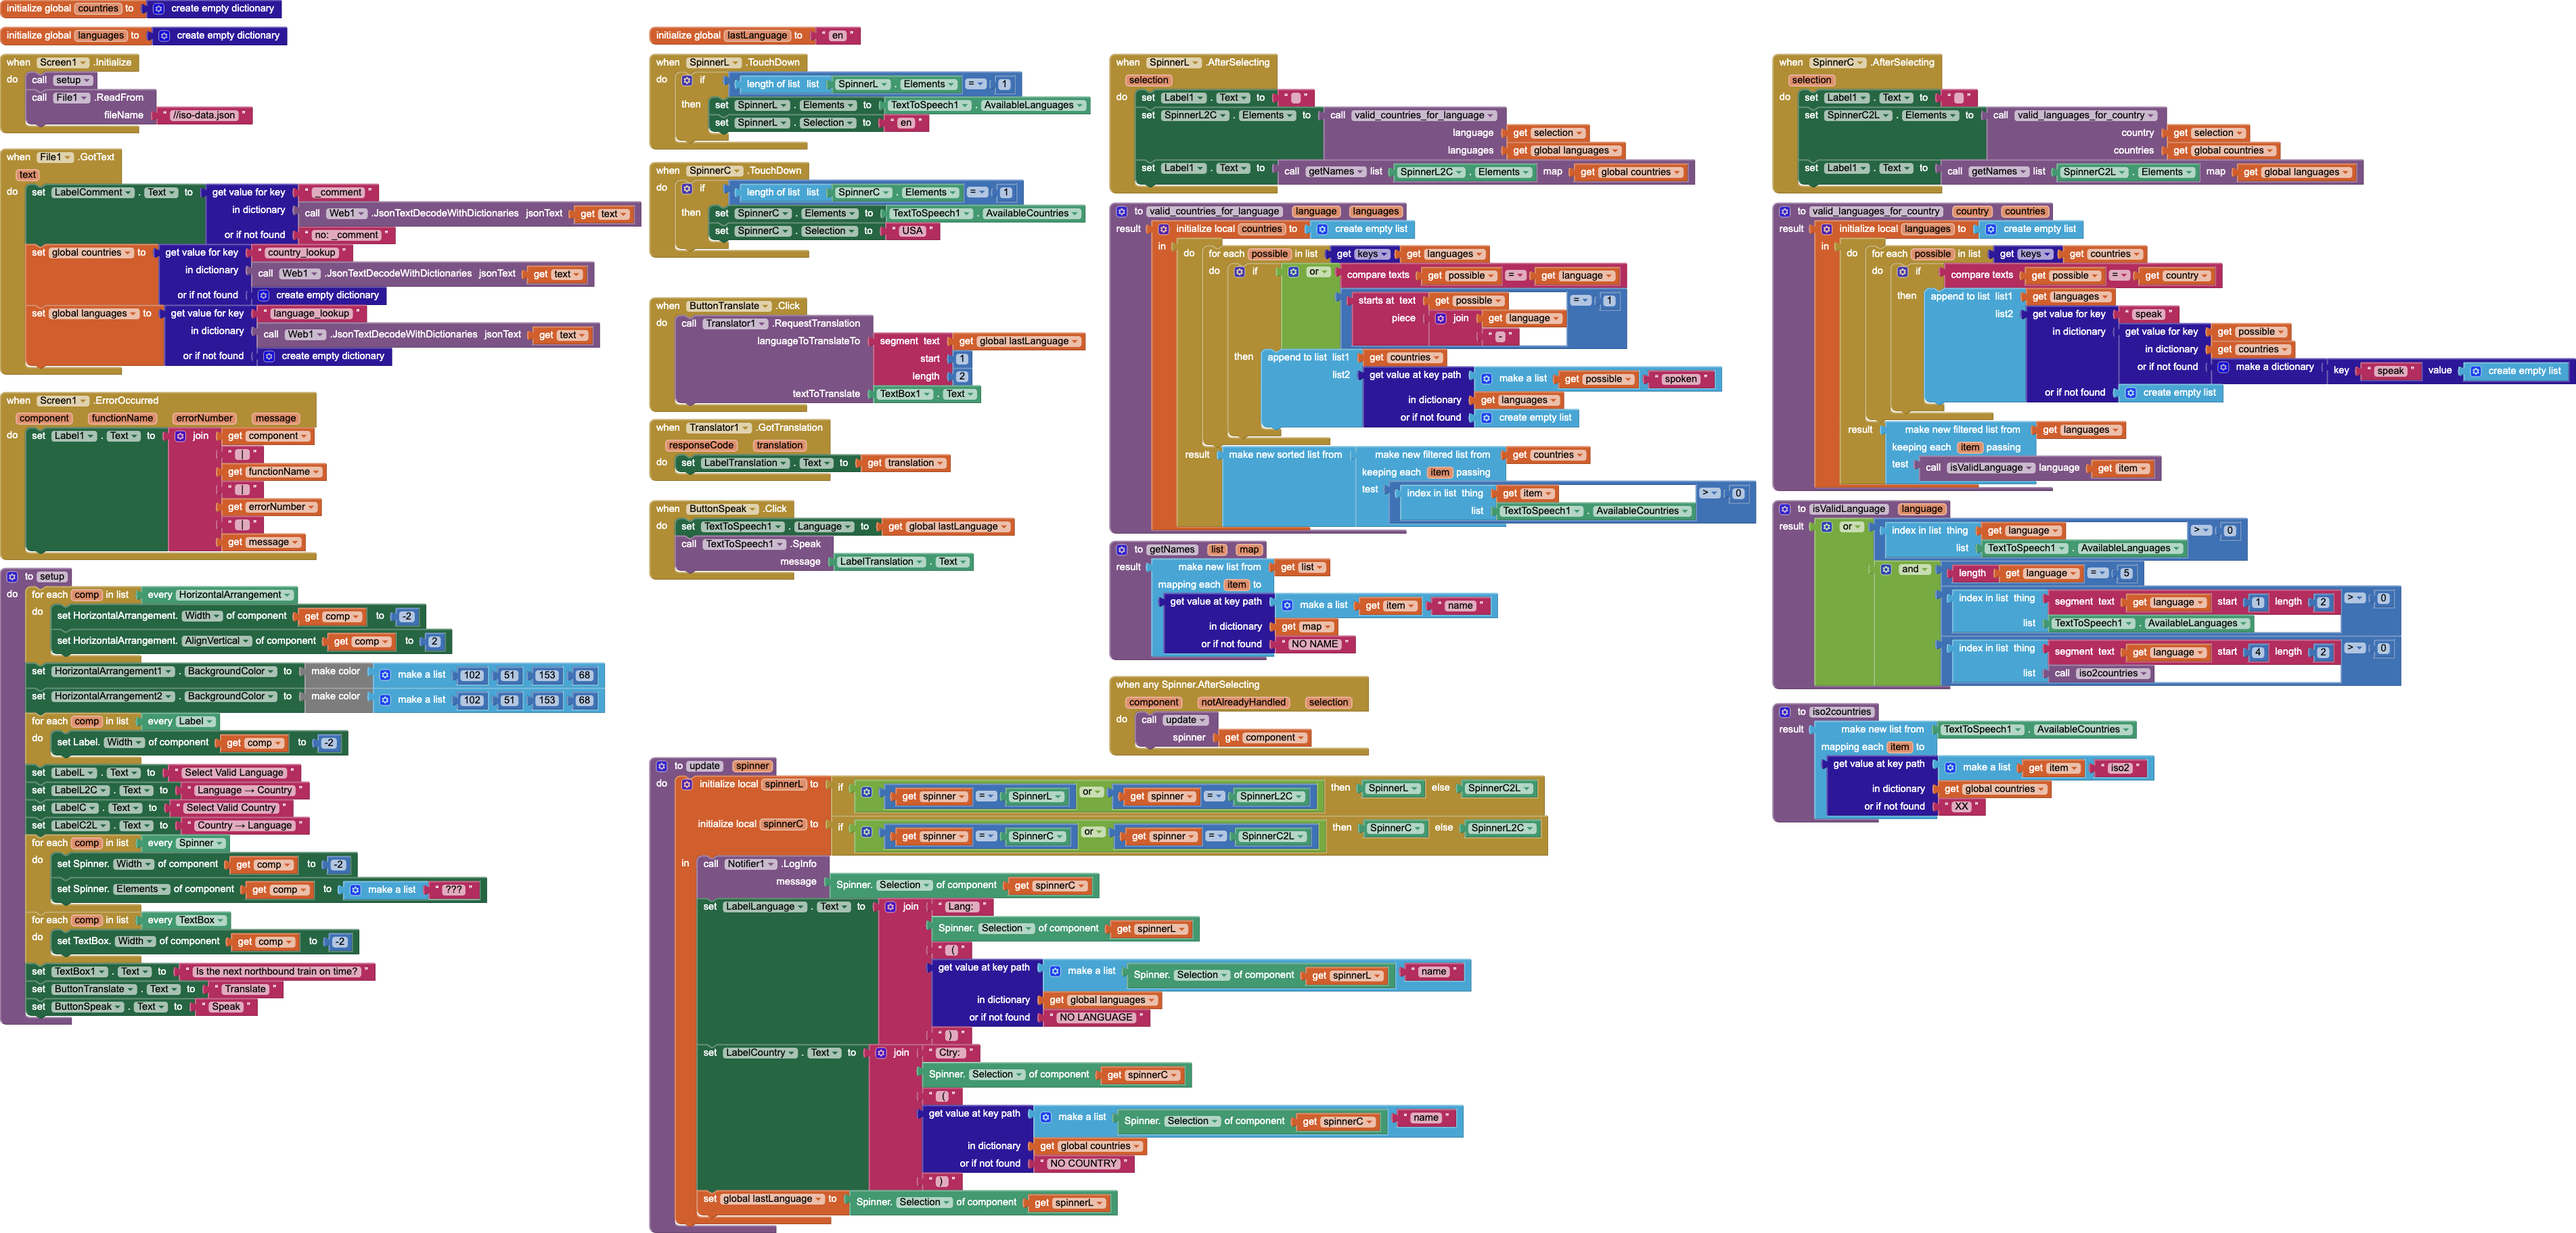
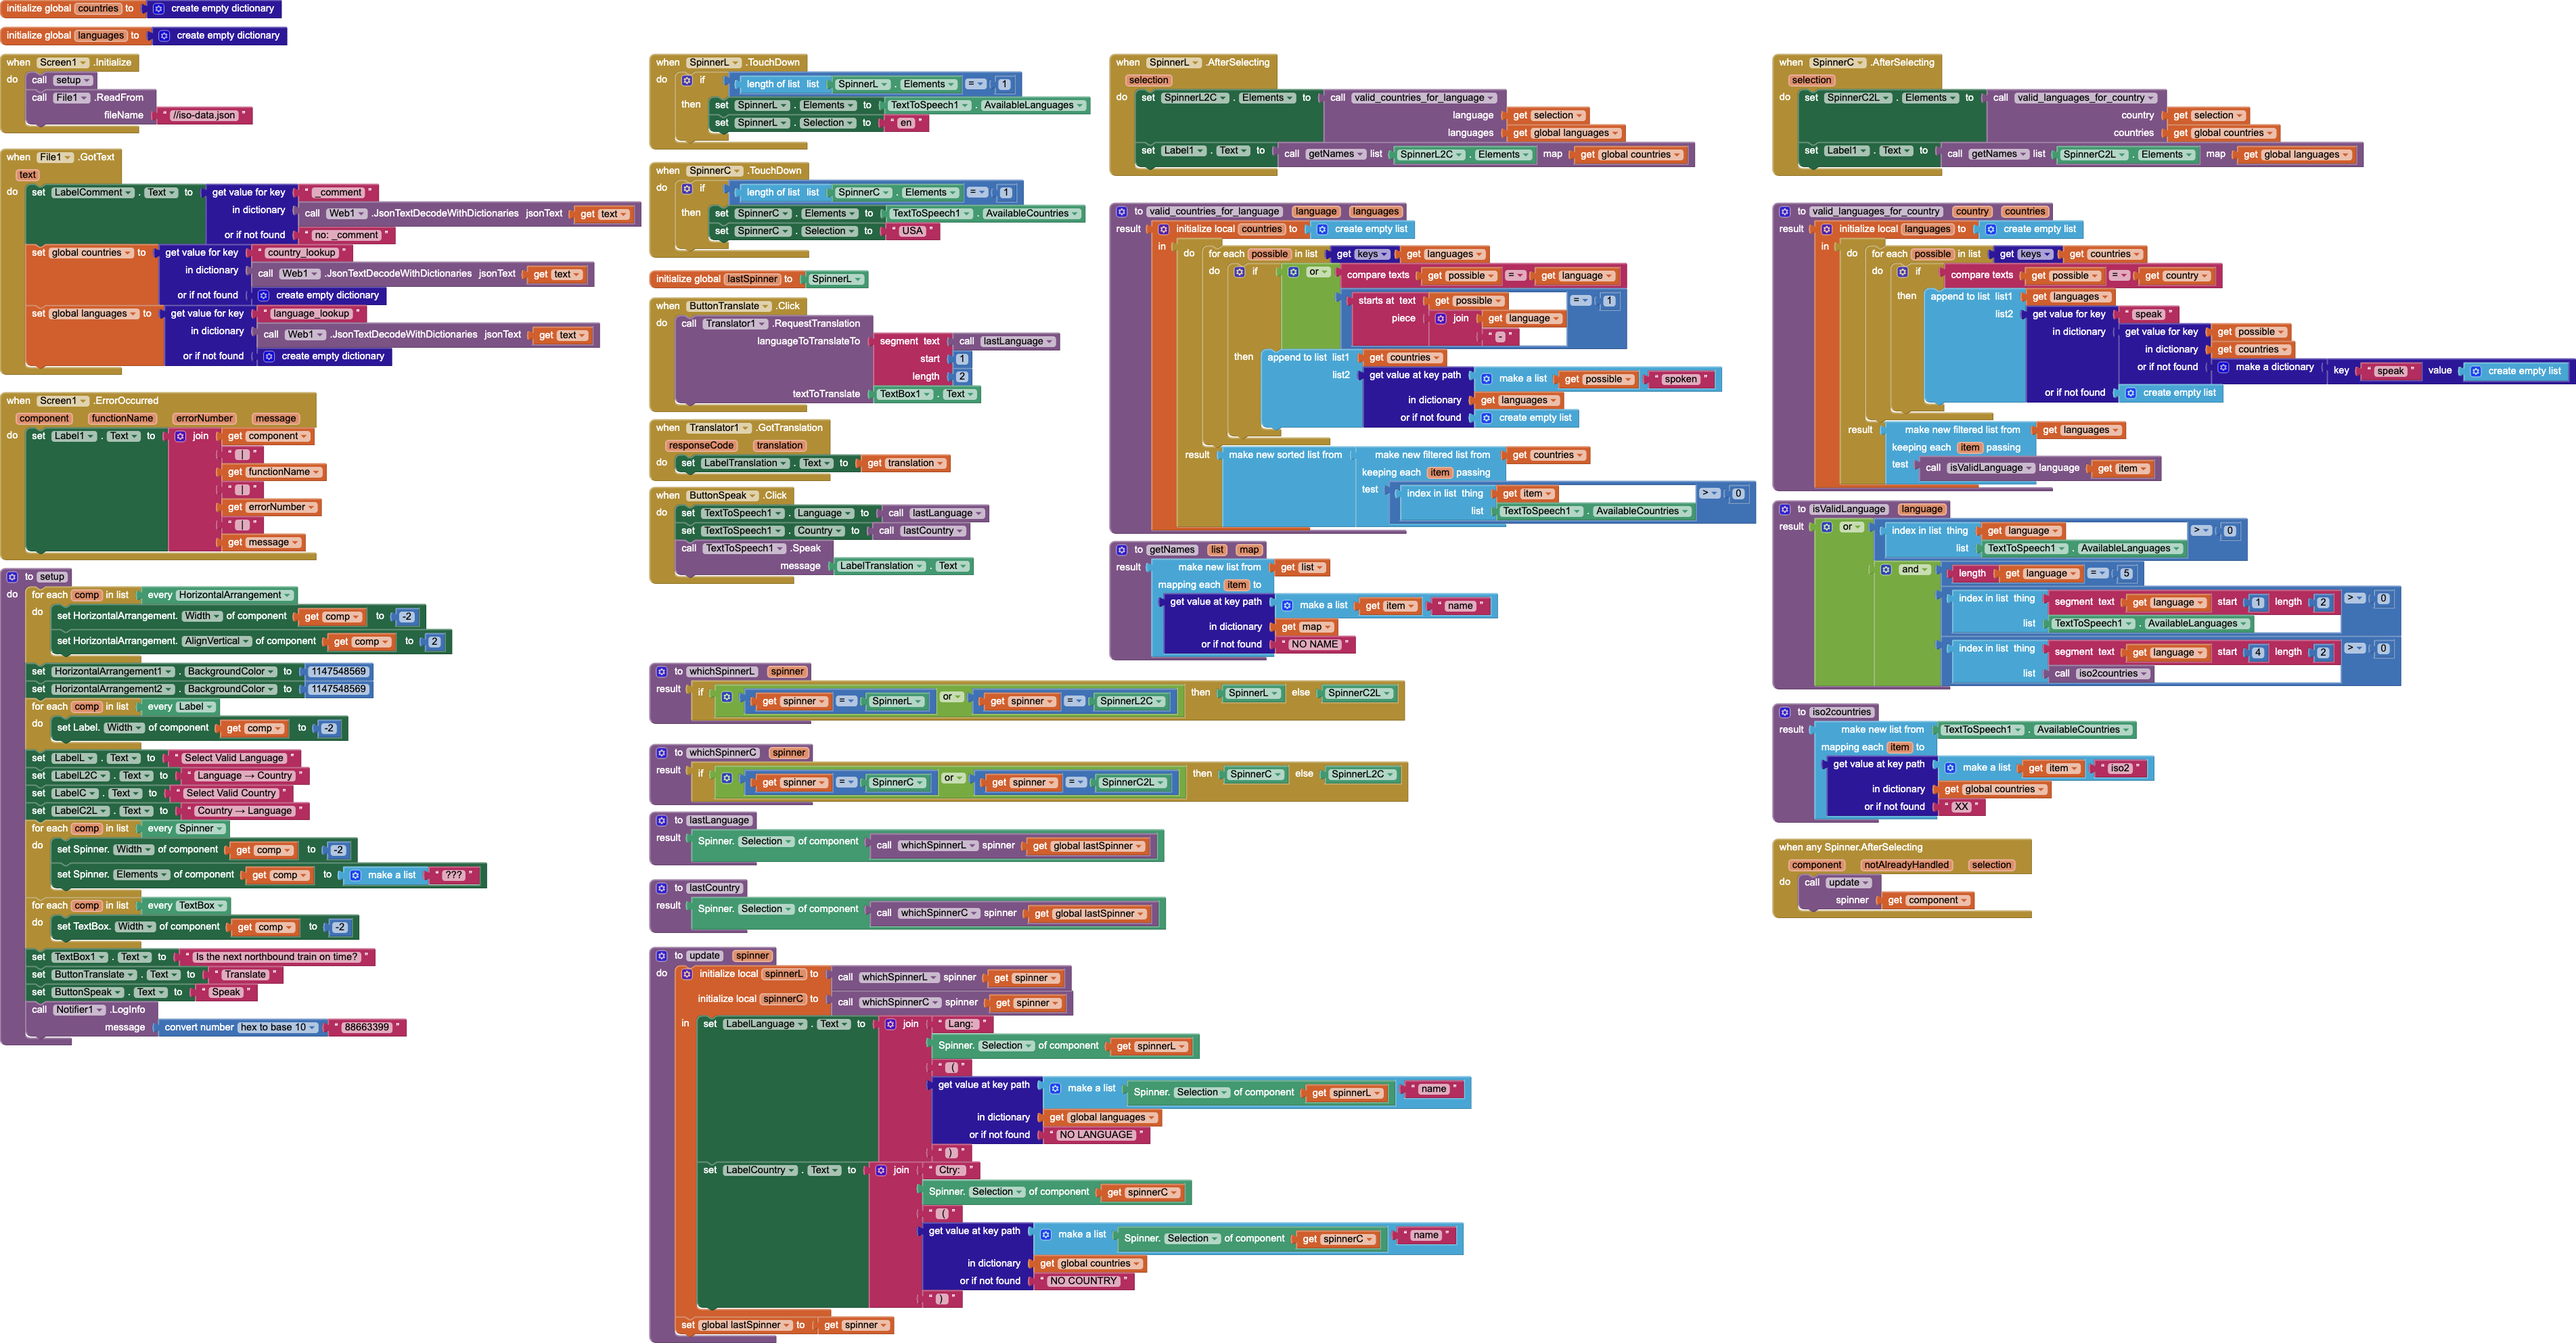
Updated README to document app use; and updated Languages to match.

diff --git a/Languages/README.md b/Languages/README.md
@@ -4,18 +4,41 @@
 
 The `Languages` app is a test of [ISO 639](https://en.wikipedia.org/wiki/List_of_ISO_639_language_codes) languages, [ISO 1366](https://en.wikipedia.org/wiki/ISO_3166) countries, and [UNSD M49](https://unstats.un.org/unsd/methodology/m49/) regions supported by the [Translator](https://ai2.appinventor.mit.edu/reference/components/media.html#Translator) and [TextToSpeech](https://ai2.appinventor.mit.edu/reference/components/media.html#TextToSpeech) [MIT App Inventor](http://ai2.appinventor.mit.edu/) components (as described in [iso.ipynb](https://github.com/dcpetty/google-colaboratory/blob/main/iso/iso.ipynb)).
 
+This work was inspired by a [Github gist](https://gist.github.com/missinglink/ebe8ba69e58dbdfb47750f6079364ecc) posted by [missinglink](https://github.com/missinglink). The additional wrinkle is that (a) the `AvailableCountries` property of the [TextToSpeech](https://ai2.appinventor.mit.edu/reference/components/media.html#TextToSpeech) component returns [ISO 3166-1 Alpha-3](https://en.wikipedia.org/wiki/ISO_3166-1_alpha-3) codes and (b) some of those codes are for *regions*, not simply countries.
+
+## Use
+
+<div style="width: 50%; display: block; margin: auto;"><a href="https://github.com/dcpetty/mit-app-inventor/blob/master/Languages/Languages-screenshot.png"><img src="./Languages-screenshot.png" alt="Languages screenshot"></a></div>
+
+- When first clicked, the *SpinnerL.Elements* property is set to the *TextToSpeech1.AvailableLanguages* property &mdash; which cannot happen in *Screen1.Initialize* because the *AvailableLanguages* property is not yet available during initialization.
+- When an available language is selected from *SpinnerL*, the *SpinnerL2C.Elements* property is set to the list of countries listed in the `country_lookup` key in [`iso-data.json`](https://github.com/dcpetty/google-colaboratory/blob/main/iso/iso-data.json) that match the *TextToSpeech1.AvailableCountries* property *for that selected language*.
+- When first clicked, the *SpinnerC.Elements* property is the *TextToSpeech1.AvailableCountries* property &mdash; which cannot happen in *Screen1.Initialize* because the *AvailableCountries* property is not yet available during initialization. 
+- When an available country is selected from *SpinnerC*, the *SpinnerC2L.Elements* property is set to the list of languages listed in the `language_lookup` key in [`iso-data.json`](https://github.com/dcpetty/google-colaboratory/blob/main/iso/iso-data.json) that match the *TextToSpeech1.AvailableLanguages* property *for that selected country*.
+- When *ButtonTranslate* is clicked (and based on which [Spinner](https://ai2.appinventor.mit.edu/reference/components/userinterface.html#Spinner) was last clicked), *Translator1.RequestTranslation* is called with the first two characters **only** ([ISO 639](https://en.wikipedia.org/wiki/List_of_ISO_639_language_codes)) of the *Selection* property of the last-clicked of *SpinnerL* or *SpinnerL2C* as the `languageToTranslate` parameter and *TextBox1.Text* as the `textToTranslate` parameter.
+- When *ButtonSpeak* is clicked (and based on which [Spinner](https://ai2.appinventor.mit.edu/reference/components/userinterface.html#Spinner) was last clicked), three things happen:
+  - *TextToSpeech1.Language* is set to the *Selection* property of the last-clicked of *SpinnerL* or *SpinnerL2C*
+  - *TextToSpeech1.Country* is set to the *Selection* property of the last-clicked of *SpinnerC* or *SpinnerC2L*
+  - *TextToSpeech1.Speak* is called with *LabelTranslation.Text* as the `message` parameter.
+
+Further explanation [TK](https://en.wikipedia.org/wiki/To_come_(publishing))&hellip;
+
 ## Code
 
-[![Language blocks](./Languages.png)](https://github.com/psb-david-petty/mit-app-inventor/blob/master/Languages/Languages.png)
+[![Language blocks](./Languages.png)](https://github.com/dcpetty/mit-app-inventor/blob/master/Languages/Languages.png)
 
-- The *SpinnerL* `Spinner` invokes &hellip; ([TK](https://en.wikipedia.org/wiki/To_come_(publishing)))
-- The *SpinnerC* `Spinner` invokes &hellip; ([TK](https://en.wikipedia.org/wiki/To_come_(publishing)))
+## JSON files
+
+- [`iso-3166-countries.json`](https://github.com/dcpetty/google-colaboratory/blob/main/iso/iso-3166-countries.json) &mdash; 
+- [`iso-639-languages.json`](https://github.com/dcpetty/google-colaboratory/blob/main/iso/iso-639-languages.json) &mdash; 
+- [`iso-data.json`](https://github.com/dcpetty/google-colaboratory/blob/main/iso/iso-data.json) &mdash; 
+- [`unsd-m49-categories.json`](https://github.com/dcpetty/google-colaboratory/blob/main/iso/unsd-m49-categories.json) &mdash; 
+- [`codes.json`](https://gist.github.com/dcpetty/a41f2834f3a66c890fff91db0073ae83) &mdash; matches [`codes.json`](https://gist.github.com/missinglink/ebe8ba69e58dbdfb47750f6079364ecc).
 
 ## Designer
 
-All components retain their default properties, except for some default `Text` properties set to their component names. This app takes the approach to component properties that sets them up at runtime with a `setup` procedure.
+All components retain their default properties, except for some default `Text` properties set to their component names. This app takes an approach to component properties that sets everything up at runtime with a `setup` procedure.
 
-<div style="width: 50%; display: block; margin: auto;"><a href="https://github.com/psb-david-petty/mit-app-inventor/blob/master/Languages/setup-blocks.png "><img src="./setup-blocks.png" alt="setup blocks"></a></div>
+<div style="width: 50%; display: block; margin: auto;"><a href="https://github.com/dcpetty/mit-app-inventor/blob/master/Languages/setup-blocks.png "><img src="./setup-blocks.png" alt="setup blocks"></a></div>
 
 <hr>
 
